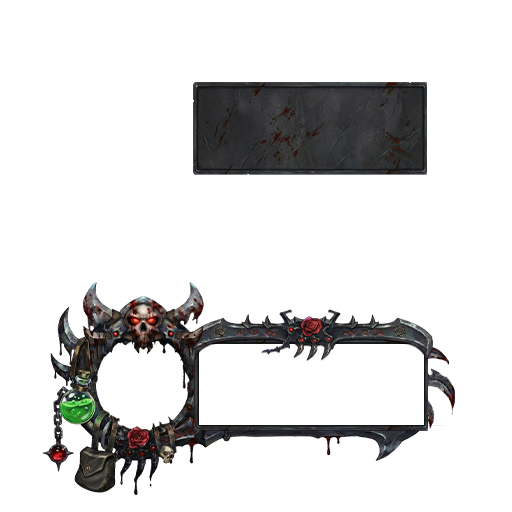
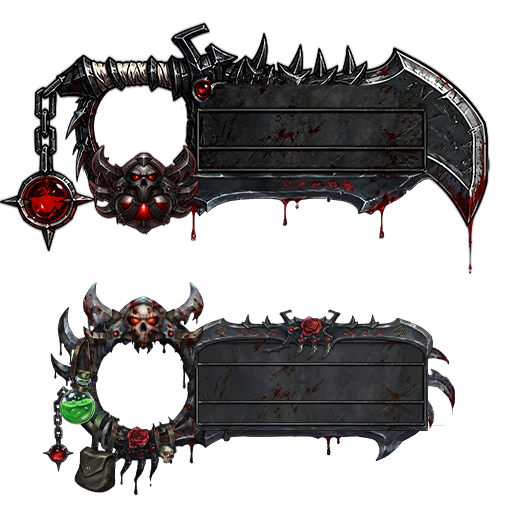
style: Update version to 1.3.11 and add new rogue frames

Changed region(s): [[0.0, 0.0312, 0.9688, 0.5312], [0.375, 0.6562, 0.8438, 0.875]]

diff --git a/README.md b/README.md
@@ -1,8 +1,8 @@
 # EPF Custom Skins
 
 [![License: CC BY-NC-SA 4.0](https://img.shields.io/badge/License-CC%20BY--NC--SA%204.0-blue.svg)](https://creativecommons.org/licenses/by-nc-sa/4.0/)
-[![Version](https://img.shields.io/badge/Version-1.3.10-informational)](ElitePlayerFrame_Enhanced_CustomSkins.toc)
-[![WoW](https://img.shields.io/badge/WoW-12.0.7%20(MN)-orange)](https://worldofwarcraft.blizzard.com/)
+[![Version](https://img.shields.io/badge/Version-1.3.11-informational)](ElitePlayerFrame_Enhanced_CustomSkins.toc)
+[![WoW](https://img.shields.io/badge/WoW-12.1.0%20(MN)-orange)](https://worldofwarcraft.blizzard.com/)
 [![Lua](https://img.shields.io/badge/Lua-5.x-blue)](https://www.lua.org/)
 
 Add-on that **extends [Elite Player Frame (Enhanced)](https://www.curseforge.com/wow/addons/elite-player-frame-enhanced)** with custom frame textures and extra selection options.

diff --git a/CHANGELOG.md b/CHANGELOG.md
@@ -4,6 +4,16 @@ All notable changes to **EPF Custom Skins** are documented in this file.
 
 The format is based on [Keep a Changelog](https://keepachangelog.com/en/1.1.0/), and this project adheres to [Semantic Versioning](https://semver.org/spec/v2.0.0.html).
 
+## [1.3.11] - 2026-08-14
+
+### Added
+
+- Added rogue frames and extra pirated themed frames
+
+### Removed
+
+- Old hunter texture file
+
 ## [1.3.10] - 2026-08-10
 
 ### Added
